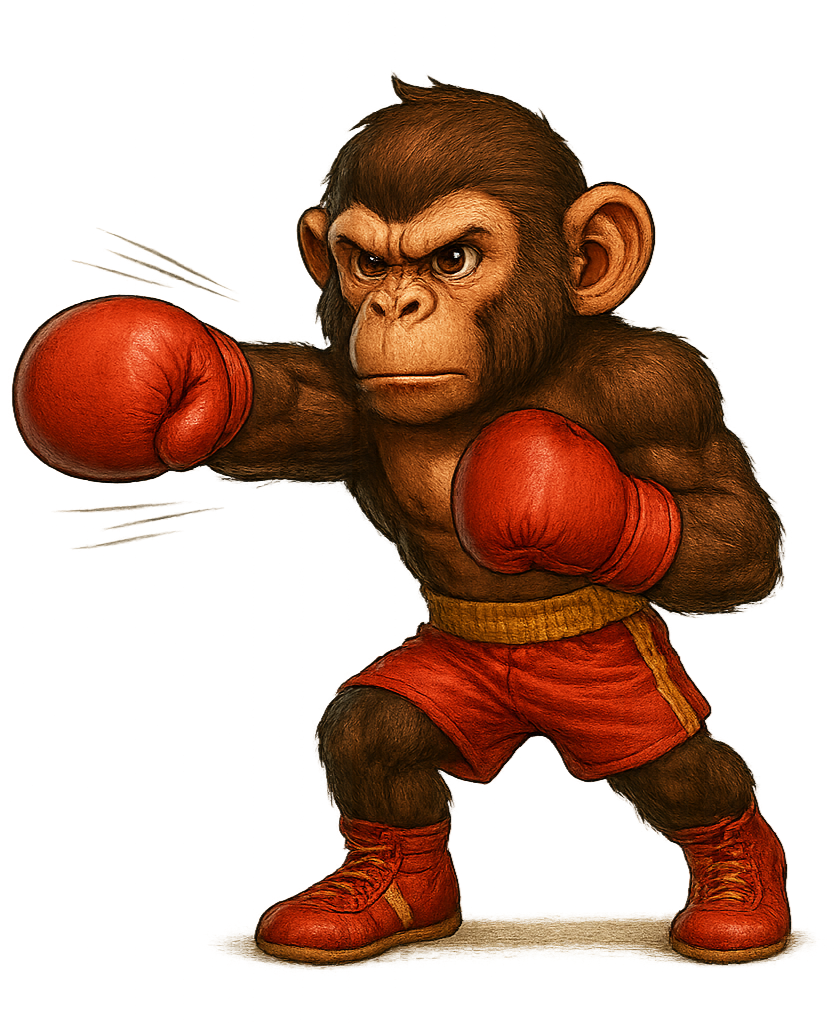
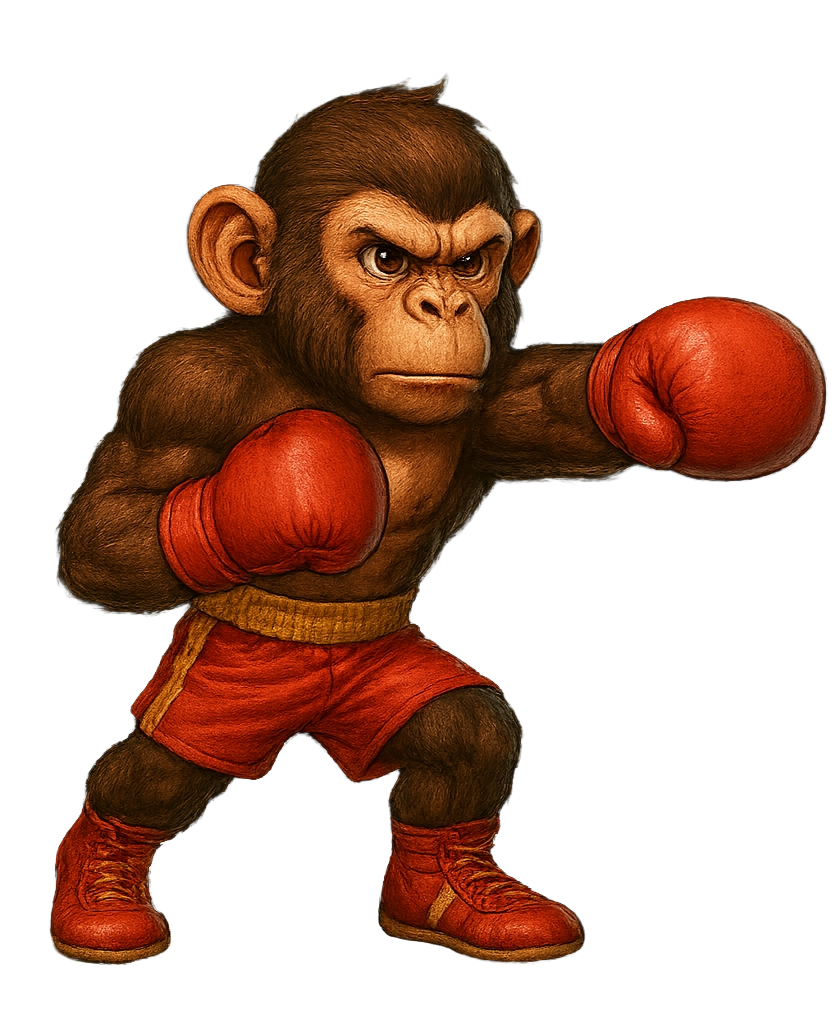
correção de bugs e melhoria de estetica

diff --git a/css/style.css b/css/style.css
@@ -4,19 +4,23 @@
 
 body{
     overflow: hidden;
-
+    
 }
 
 
 
 main {
-    background: #9c9900;
-    background: linear-gradient(100deg, rgba(156, 153, 0, 1) 0%, rgba(255, 238, 0, 1) 52%, rgba(250, 250, 130, 1) 90%);
+    
+    background-image: url("../assets/imgs/background.png");
+    background-repeat: repeat;
     height: 200vw;
     font-family: "Roboto", sans-serif;
 
 
 }
+
+
+
 
 .monkey {
     display: flex;
@@ -66,6 +70,38 @@ main {
     display: flex;
     align-items: center;
     justify-content: center;
+    background: #b57300;
+    background: linear-gradient(133deg, rgba(181, 115, 0, 1) 0%, rgba(255, 166, 0, 1) 51%, rgba(255, 164, 36, 1) 84%);
+    border: solid 2px rgb(0, 0, 0);
+    padding: 10px;
+    margin-bottom: 10px;
+    border-bottom-left-radius: 30px;
+    border-top-right-radius: 30px;
+    box-shadow: 5px 5px 5px rgba(0, 0, 0, 0.5);
+    font-family: 'Press Start 2P', cursive;
+}
+
+.outrasFortunas{
+    
+    display: flex;
+    flex-direction: column;
+    width: 200px;
+    background: #b57300;
+    background: linear-gradient(133deg, rgba(181, 115, 0, 1) 0%, rgba(255, 166, 0, 1) 51%, rgba(255, 164, 36, 1) 84%);
+    border: solid 2px rgb(0, 0, 0);
+    margin-left: 10px;
+    border-bottom-left-radius: 30px;
+    border-top-right-radius: 30px;
+    box-shadow: 5px 5px 5px rgba(0, 0, 0, 0.5);
+    
+
+}
+
+.containerCashMonkey{
+    display: flex;
+    align-items: center;
+    justify-content: center;
+    padding-top: 10px;
 }
 
 
@@ -334,9 +370,9 @@ main {
 
 .trofeus {
     margin-left: 20px;
-    font-size: 30px;
+    font-size: 20px;
     font-weight: 500;
-    font-family: "Roboto", sans-serif;
+    font-family: 'Press Start 2P', cursive;
     color: white;
 }
 
@@ -344,8 +380,8 @@ main {
     color: white;
     margin-top: 10px;
     margin-left: 20px;
-    font-size: 30px;
-    font-family: "Roboto", sans-serif;
+    font-size: 20px;
+    font-family: 'Press Start 2P', cursive;
     font-weight: 500;
 }
 
@@ -395,6 +431,7 @@ main {
   justify-content: center; 
   gap: 10px; 
   padding: 10px;
+  font-family: 'Press Start 2P', cursive;
 }
 
 .upgrade, .divLojaItem {
@@ -404,9 +441,10 @@ main {
   border: 1px solid #ccc;
   border-radius: 8px;
   padding: 8px;
-  background: #fafafa;
+  background: #ff7b00;
   cursor: pointer;
   text-align: center;
+  font-family: 'Press Start 2P', cursive;
 }
 
 .itemLoja, .upgrade img {
@@ -414,10 +452,12 @@ main {
   height: auto;
   display: block;
   margin: 0 auto 8px auto;
+  font-family: 'Press Start 2P', cursive;
 }
 
 .precoLoja, .tituloupgrade {
   font-size: 1rem;
+  font-family: 'Press Start 2P', cursive;
 }
 
 
@@ -428,8 +468,9 @@ main {
   }
   
   .monkeycoins, .auras, .trofeus {
-    font-size: 1.2rem;
+    font-size: 1rem;
     padding: 5px;
+    font-family: 'Press Start 2P', cursive;
   }
 
   #monkeyimg {

diff --git a/js/combate.js b/js/combate.js
@@ -10,7 +10,12 @@ const VidaOponente = document.querySelector("#VidaOponente")
 
 const bottaoEscolhaPersoangens = [...document.querySelectorAll(".bottaoEscolhaP")]
 
-let BarraVidaProta = 100
+
+let BarraVidaProta = Number(localStorage.getItem("BarraVidaProta")) || 100;
+VidaProta.innerHTML = BarraVidaProta
+
+
+
 
 let punchTimeOut;
 let cooldownPunch = false;
@@ -28,33 +33,33 @@ const listadeoponentes = [
     },
     {
         nome: "Chico Monkey",
-        vida: 5000,
-        srcPose: "assets/imgs/Lutas/chico...Quer dizer...Macacoem podedeluta.png",
-        srcDano: "assets/imgs/Lutas/chico...Quer dizer...Macacoem podedeluta.png",
-        Id: 2,
-        dano: 500,
-        quantidadeTrofeus: 5,
-        srcSoco: "assets/imgs/Lutas/chicomonkeydandosoco(2).png"
-    },
-    {
-        nome: "Chico Monkey",
         vida: 50000,
-        srcPose: "assets/imgs/Lutas/chico...Quer dizer...Macacoem podedeluta.png",
-        srcDano: "assets/imgs/Lutas/chico...Quer dizer...Macacoem podedeluta.png",
+        srcPose: "assets/imgs/Lutas/chico...Quer dizer...Macaco em pode de luta.png",
+        srcDano: "assets/imgs/Lutas/chico...Quer dizer...Macaco em pode de luta.png",
         Id: 2,
-        dano: 5000,
-        quantidadeTrofeus: 50,
-        srcSoco: "assets/imgs/Lutas/chicomonkeydandosoco(2).png"
+        dano: 50000,
+        quantidadeTrofeus: 500,
+        srcSoco: "assets/imgs/Lutas/chico monkey dando soco (2).png"
     },
     {
         nome: "Chico Monkey",
-        vida: 100000,
-        srcPose: "assets/imgs/Lutas/chico...Quer dizer...Macacoem podedeluta.png",
-        srcDano: "assets/imgs/Lutas/chico...Quer dizer...Macacoem podedeluta.png",
+        vida: 5000000,
+        srcPose: "assets/imgs/Lutas/chico...Quer dizer...Macaco em pode de luta.png",
+        srcDano: "assets/imgs/Lutas/chico...Quer dizer...Macaco em pode de luta.png",
         Id: 2,
-        dano: 10000,
-        quantidadeTrofeus: 500,
-        srcSoco: "assets/imgs/Lutas/chicomonkeydandosoco(2).png"
+        dano: 500000,
+        quantidadeTrofeus: 5000,
+        srcSoco: "assets/imgs/Lutas/chico monkey dando soco (2).png"
+    },
+    {
+        nome: "Chico Monkey",
+        vida: 1000000000000,
+        srcPose: "assets/imgs/Lutas/chico...Quer dizer...Macaco em pode de luta.png",
+        srcDano: "assets/imgs/Lutas/chico...Quer dizer...Macaco em pode de luta.png",
+        Id: 2,
+        dano: 1000000000,
+        quantidadeTrofeus: 10000,
+        srcSoco: "assets/imgs/Lutas/chico monkey dando soco (2).png"
     }
 ]
 
@@ -127,7 +132,7 @@ prota.addEventListener("click", () => {
         cooldownPunch = false;
     }
 
-    BarraVidaOponente -= 10;
+    BarraVidaOponente -= quantidadeDano;
     VidaOponente.innerHTML = BarraVidaOponente;
 
     if (BarraVidaOponente <= 0) {

diff --git a/js/index.js b/js/index.js
@@ -14,6 +14,7 @@ let contadordeespecial1 = Number(localStorage.getItem("contadordeespecial1")) ||
 let contadordeespecial2 = 0
 let imgtimeout = null
 let possibilidadeDeCasar = 0
+let BarraVidaProta = Number(localStorage.getItem("BarraVidaProta")) || 10;
 
 
 
@@ -104,6 +105,7 @@ for (let i in lojaList) {
                 localStorage.setItem("quantidadeDano", quantidadeDano);
                 monkeycoins.innerHTML = `Monkey Coins: ${cash}`;
                 localStorage.setItem("cash", cash);
+                localStorage.setItem("BarraVidaProta", BarraVidaProta);
 
             }
 
@@ -485,7 +487,7 @@ monkeybutton.addEventListener("click", () => {
 
     }
     if (cash >= 10000000000000000) {
-        monkeybutton.src = "assets/macaco infinitamente rico(1).png"
+        monkeybutton.src = "assets/Macaco Interuniversal.png"
 
 
     }
@@ -511,9 +513,16 @@ const msgResultado = document.getElementById("msgResultado")
 
 
 
-
+let modalLoja = false;
 Upgrade.addEventListener("click", () => {
-    modalUpgrade.style.display = "flex"
+    if(modalLoja == false){
+        modalUpgrade.style.display = "flex"
+        modalLoja = true
+    } else if(modalLoja == true){
+        modalUpgrade.style.display = "none"
+        modalLoja = false
+
+    }
 })
 
 const somDerrota = new Audio("assets/audio/SomDerrota.m4a")
@@ -535,6 +544,8 @@ pedirCasamento.addEventListener("click", () => {
         possibilidadeDeCasar = 0
         quantidadeDeVitorias = 1
         monkeycoins.textContent = cash
+        trofeus.textContent = `Trofeus: 0`
+        auras.textContent = `Aura: 0`
         somDerrota.play()
 
 

diff --git a/index.html b/index.html
@@ -16,6 +16,7 @@
     <link rel="preconnect" href="https://fonts.gstatic.com" crossorigin>
     <link href="https://fonts.googleapis.com/css2?family=Bitcount+Prop+Single:wght@100..900&family=Bungee&display=swap"
         rel="stylesheet">
+    <link href="https://fonts.googleapis.com/css2?family=Press+Start+2P&display=swap" rel="stylesheet">
 
 
 </head>
@@ -25,15 +26,20 @@
     <main>
         <div class="Elementos">
 
+            <div class="containerCashMonkey">
+                <div class="cashmonkey">
+                    <h2 id="monkeycoins">Monkey Coins: 0</h2>
+                </div>
 
-            <div class="cashmonkey">
-                <h2 id="monkeycoins">Monkey Coins: 0</h2>
             </div>
-            <div class="trofeus">
-                <h2 class="trofeu"></h2>
-            </div>
-            <div class="auras">
-                <h2 class="aura">h2>
+            <div class="outrasFortunas">
+                <div class="trofeus">
+                    <h2 class="trofeu"></h2>
+                </div>
+                <div class="auras">
+                    <h2 class="aura">h2>
+                </div>
+
             </div>
             <div class="divname">
                 <h2 class="NameMonkey">Gabriel</h2>

diff --git a/css/combate.css b/css/combate.css
@@ -46,9 +46,24 @@ body {
     
 }
 
+.combateDiv {
+    top: 50%;
+    position: absolute;
+    left: 2%;
+    cursor: pointer;
+    z-index: 10;
+
+}
+
+
+.combate {
+    width: 10vw;
+    border-radius: 100px;
+    
+}
+
 
 .protapunch {
-    transform: scaleX(-1);
     min-width: 50vh;
 }
 
@@ -190,7 +205,8 @@ body {
 }
 
 .modal-content {
-    background-color: white;
+    background-image: url("../assets/imgs/background.png");
+    border: solid 2px black;
     margin: 15% auto;
     padding: 30px;
     border-radius: 10px;

diff --git a/combate.html b/combate.html
@@ -57,6 +57,14 @@
 
 
 
+        <div class="combateDiv">
+            <a href="./index.html">
+                <img src="/assets/imgs/icons/combate icon.png" alt="Lutar Icon" class="combate">
+            </a>
+        </div>
+
+
+
 
         <div id="modalVitoria" class="modal">
             <div class="modal-content">
